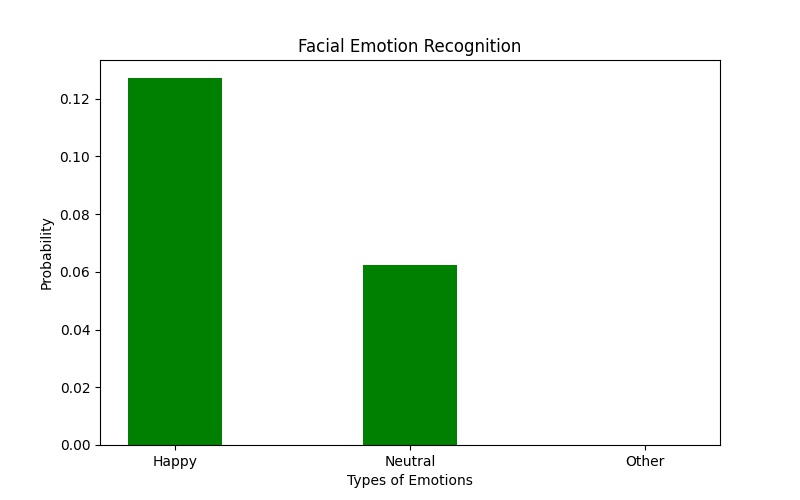
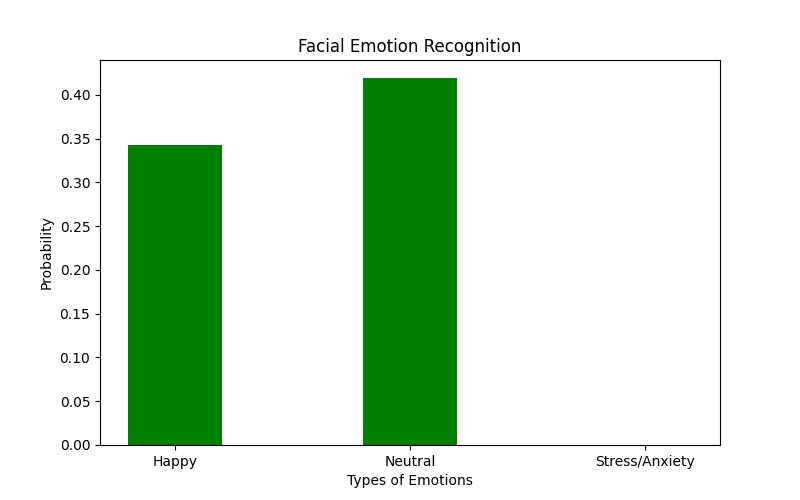
updates with header css

diff --git a/templates/tracking.html b/templates/tracking.html
@@ -10,15 +10,15 @@ Emotion Analysis
         </div>-->
         <div class="col-md-6">
             <h3  style="color:black" >Input Image</h3>
-            <img src="/static/images/capture.jpg" alt="Original" style="width:400px;height:500px;">
+            <img src="/static/images/capture.jpg" alt="Original" style="width:600px;height:500px;">
         </div>
         <div class="col-md-6">
             <h3  style="color:black">Prediction</h3>
-            <img src="/static/images/pred_capture.jpg" alt="Prediction" style="width:400px;height:500px;">
+            <img src="/static/images/predcapture.jpg" alt="Prediction" style="width:600px;height:500px;">
         </div>
         <div class="col-md-8">
             <div style="padding:5px;" >
-              <img src="/static/images/{{bar}}" alt="Visualisation"/>
+              <img src="/static/images/bar_plotcapture.jpg" alt="Visualisation"/>
             </div>
         </div>
         <div class="col-md-12">
@@ -28,7 +28,7 @@ Emotion Analysis
                     <th scope="col">#</th>
                     <th scope="col">Happy</th>
                     <th scope="col">Neutral</th>
-                    <th scope="col">Other</th>
+                    <th scope="col">Anxiety/Stress</th>
                    </tr>
                 </thead>
                 <tbody>

diff --git a/templates/Visual.html b/templates/Visual.html
@@ -54,15 +54,15 @@ Graph Visualisation
       justify-content:center;text-align:center;" >
         <div class="container" style="padding:20px;" >
           <h3  style="color:black" >Input Image</h3>
-          <img src="/static/{{orig}}" alt="Original" style="width:400px;height:500px;">
+          <img src="/static/images/{{orig}}" alt="Original" style="width:400px;height:500px;">
         </div>
         <div class="container" style="padding:20px;">
           <h3  style="color:black">Prediction</h3>
-          <img src="/static/{{pred}}" alt="Prediction" style="width:400px;height:500px;">
+          <img src="/static/images/{{pred}}" alt="Prediction" style="width:400px;height:500px;">
         </div>
         <div class="container" style="padding:20px;" >
           <h3  style="color:black">Visualisation</h3>
-          <img src="/static/{{bar}}" alt="Visualisation" style="width:400px;height:500px;padding-top:20px;"/>
+          <img src="/static/images/{{bar}}" alt="Visualisation" style="width:400px;height:500px;padding-top:20px;"/>
         </div>
       </div>
       </div> 

diff --git a/templates/about.html b/templates/about.html
@@ -71,7 +71,7 @@ Emotion Analysis
             type: "POST",
             dataType: "json",
             //data: { 'name': 'Payam' },
-            url: "/snaptakeimage",
+            url: "/takeimage",
             success: function (data) {
               if (activity == null && data.activity != null) {
                 activity = data.activity;
@@ -84,7 +84,7 @@ Emotion Analysis
             }
           });
         }
-      }, 10000);
+      }, 50000);
   }
   function stopCaptureImage() {
     window.clearInterval(countdown);

diff --git a/templates/base.html b/templates/base.html
@@ -48,6 +48,7 @@
         <ul class="menu flex">
           <li class="menu__item"><a href="{{ url_for('about') }}" class="menu__link">Home</a></li>
           <li class="menu__item"><a href="{{ url_for('Start') }}" class="menu__link">Aid for Recovery</a></li>
+          <li class="menu__item"><a href="{{ url_for('RealTime') }}" class="menu__link">RealTime</a></li>
           <li class="menu__item"><a href="{{ url_for('trackmyInfo') }}" class="menu__link">Analytics</a></li>
         </ul>
       </nav>

diff --git a/static/app.css b/static/app.css
@@ -33,13 +33,13 @@
   }
   
   .container {
-    max-width: 1200px;
+    max-width: 1500px;
     margin: auto;
   }
   
   /* Spacing Rules */
   .container-pall { /* all */
-    padding: 0.875rem 0.5625rem;
+    padding: 0.875rem 4.5625rem;
   }
   
   .container-py { /* y-axis */
@@ -96,7 +96,8 @@
   /* End General Styles */
   
   .header {
-    height: var(--header-height);
+    background-color: #d71e2b;
+    border-bottom: 4px solid #fcc60a;
   }
   
   .nav {

diff --git a/Graphical_Visualisation.py b/Graphical_Visualisation.py
@@ -34,12 +34,20 @@ class ImageAnalysis(db.Model):
     def __repr__(self):
         return f'ImageAnalysis {self.id}' 
 
+def new_values(result):
+    if result=="Happy":
+        return 'Happy'
+    elif result=="Neutral":
+         return 'Neutral'
+    else :
+        return 'Anxiety'
+
 def Emotion_Analysis(img):
     """ It does prediction of Emotions found in the Image provided, does the 
     Graphical visualisation, saves as Images and returns them """
 
     # Read the Image through OpenCv's imread()
-    path = "static/" + str(img)
+    path = "static/images/" + str(img)
     image = cv2.imread(path)
 
     # Convert the Image into Gray Scale
@@ -79,7 +87,7 @@ def Emotion_Analysis(img):
 
 
         # Defining the Parameters for putting Text on Image
-        Text = str(prediction) + Symbols[str(prediction)]
+        Text = str(new_values(prediction)) + Symbols[str(prediction)]
         Text_Color = (180, 105, 255)
 
         Thickness = 2
@@ -99,7 +107,7 @@ def Emotion_Analysis(img):
         cv2.circle(image, (xc, yc), radius, (0, 255, 0), Thickness)
 
         # Saving the Predicted Image
-        path = "static/" + "pred" + str(img)
+        path = "static/images/" + "pred" + str(img)
         cv2.imwrite(path, image)
 
         # List of Emotions
@@ -108,9 +116,29 @@ def Emotion_Analysis(img):
                     "Neutral", "Sad",
                     "Surprise"]
 
+         # List of Emotions
+        NEW_EMOTIONS = [ "Happy",
+                    "Neutral", "Stress/Anxiety"]            
+
         # Finding the Probability of each Emotion
         preds = test_model.return_probabs(roi[np.newaxis, :, :, np.newaxis])
 
+        # Converting the array into list
+        data = preds.tolist()[0]
+
+        happy_prop = 0
+        neutral_prop = 0
+        other = 0
+        for i in range(0,len(data)):
+            if i == 4:
+                happy_prop = data[i]
+            elif i == 5:
+                neutral_prop = data[i]
+            else:
+                other += other
+
+        new_cordinates = [happy_prop, neutral_prop, other]
+        
         # Converting the array into list
         data = preds.tolist()[0]
         print(str(data))
@@ -122,7 +150,7 @@ def Emotion_Analysis(img):
         fig = plt.figure(figsize=(8, 5))
 
         # Creating the bar plot
-        plt.bar(EMOTIONS, data, color='green',
+        plt.bar(NEW_EMOTIONS, new_cordinates, color='green',
                 width=0.4)
 
         # Labelling the axes and title
@@ -131,7 +159,7 @@ def Emotion_Analysis(img):
         plt.title("Facial Emotion Recognition")
 
         # Saving the Bar Plot
-        path = "static/" + "bar_plot" + str(img)
+        path = "static/images/" + "bar_plot" + str(img)
         plt.savefig(path)
        
     # Returns a list containing the names of Original, Predicted, Bar Plot Images

diff --git a/routes.py b/routes.py
@@ -182,7 +182,7 @@ def snapTakeimage():
     v = VideoCamera()
 
     _, frame = v.video.read()
-    save_to = "static/"
+    save_to = "static/images/"
     cv2.imwrite(save_to + "capture" + ".jpg", frame)
 
     result = Emotion_Analysis("capture.jpg")
@@ -205,7 +205,7 @@ def snapTakeimage():
     db.session.commit()
 
     response = jsonify(
-        monitoringFlag="False",activity=activity, emotion_Type= result[3]
+        monitoringFlag="False",activity=activity, emotion_Type=result[3]
     )
     return response
     # return render_template('Visual.html', orig=result[0], pred=result[1], bar=result[2], music=result[3],
@@ -217,9 +217,8 @@ def takeimage():
     """ Captures Images from WebCam, saves them, does Emotion Analysis & renders. """
 
     v = VideoCamera()
-
     _, frame = v.video.read()
-    save_to = "static/"
+    save_to = "static/images/"
     cv2.imwrite(save_to + "capture" + ".jpg", frame)
 
     result = Emotion_Analysis("capture.jpg")
@@ -301,7 +300,7 @@ def imageurl():
     webpage = urlopen(req).read()
     arr = np.asarray(bytearray(webpage), dtype=np.uint8)
     img = cv2.imdecode(arr, -1)
-    save_to = "static/"
+    save_to = "static/images/"
     cv2.imwrite(save_to + "url.jpg", img)
 
     result = Emotion_Analysis("url.jpg")

diff --git a/ER_EmotionRecognizer_UI.py b/ER_EmotionRecognizer_UI.py
@@ -50,6 +50,13 @@ def mood(result):
     elif result=="Surprise":
         return 'You seem surprised! Hopefully its some good news. Lets celebrate it with some great music!'
 
+def new_values(result):
+    if result=="Happy":
+        return 'Happy'
+    elif result=="Neutral":
+         return 'Neutral'
+    else :
+        return 'Anxiety'
 
 
 def Emotion_Analysis(img):
@@ -92,12 +99,13 @@ def Emotion_Analysis(img):
         Symbols = {"Happy": ":)", "Sad": ":}", "Surprise": "!!",
                    "Angry": "?", "Disgust": "#", "Neutral": ".", "Fear": "~"}
     
+        
 
         ## based on the prediction recommend music
 
 
         # Defining the Parameters for putting Text on Image
-        Text = str(prediction) + Symbols[str(prediction)]
+        Text = str(new_values(prediction)) + Symbols[str(prediction)]
         Text_Color = (180, 105, 255)
 
         Thickness = 2
@@ -133,7 +141,7 @@ def Emotion_Analysis(img):
 
         # List of Emotions
         NEW_EMOTIONS = [ "Happy",
-                    "Neutral", "Other"]            
+                    "Neutral", "Anxiety"]            
 
         # Finding the Probability of each Emotion
         preds = test_model.return_probabs(roi[np.newaxis, :, :, np.newaxis])
